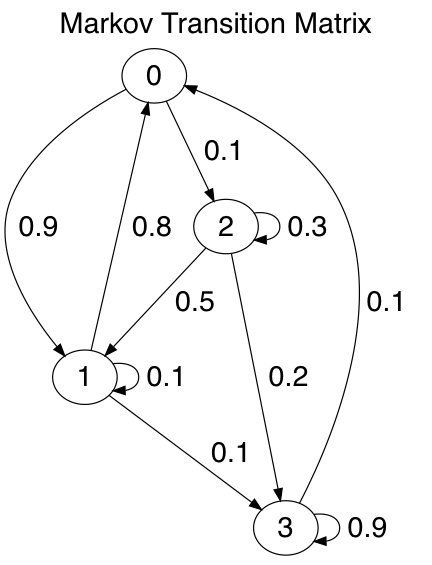
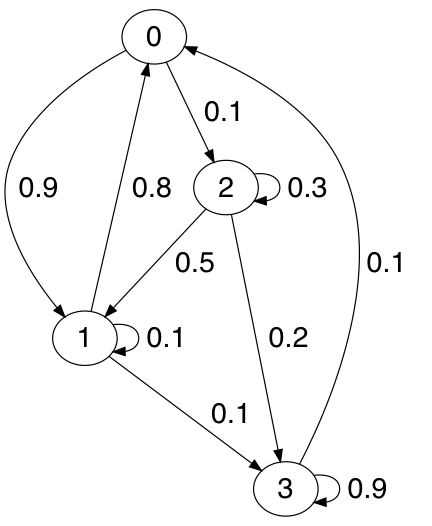
cleaned up eigenvector and eigenvalue calculations

diff --git a/hydrogen_notebooks/mcmc/markov_chain_diagonalization.py b/hydrogen_notebooks/mcmc/markov_chain_diagonalization.py
@@ -6,29 +6,27 @@ import numpy
 
 # %%
 
-t = [[0.3, 0.3, 0.4], [0.1, 0.9, 0.], [0.1, 0.5, 0.4]]
+t = [[0.0, 0.9, 0.1, 0.0],
+     [0.8, 0.1, 0.0, 0.1],
+     [0.0, 0.5, 0.3, 0.2],
+     [0.1, 0.0, 0.0, 0.9]]
 p = numpy.matrix(t)
+
+# %%
 
 eigenvalues, eigenvectors = numpy.linalg.eig(p)
 eigenvalues
 eigenvectors
-d = numpy.diag(eigenvalues)
-e = numpy.matrix(eigenvectors)
-e_inv = numpy.linalg.inv(e)
+Λ = numpy.diag(eigenvalues)
+V = numpy.matrix(eigenvectors)
+V_inv = numpy.linalg.inv(V)
 
-d_t = d**100
-e * d_t
+Λ_t = Λ**100
+V * Λ_t
 
-e * d_t * e_inv
+V * Λ_t * V_inv
 
 p**100
 
 # %%
-
-p*eigenvectors[:,1]
-eigenvalues[1]*eigenvectors[:,1]
-
-# %%
-
-one = numpy.matrix([[1], [1], [1]])
-p*one
+V_inv[2]/numpy.sum(V_inv[2])

diff --git a/hydrogen_notebooks/mcmc/markov_chain_equilibium.py b/hydrogen_notebooks/mcmc/markov_chain_equilibium.py
@@ -20,7 +20,6 @@ g1 = """digraph markov_chain {
    edge[fontsize=24, fontname=Helvetica];
    graph[fontsize=24, fontname=Helvetica];
    labelloc="t";
-   label="Markov Transition Matrix";
    0 -> 1 [label=" 0.9"];
    0 -> 2 [label=" 0.1"];
    1 -> 0 [label=" 0.8"];
